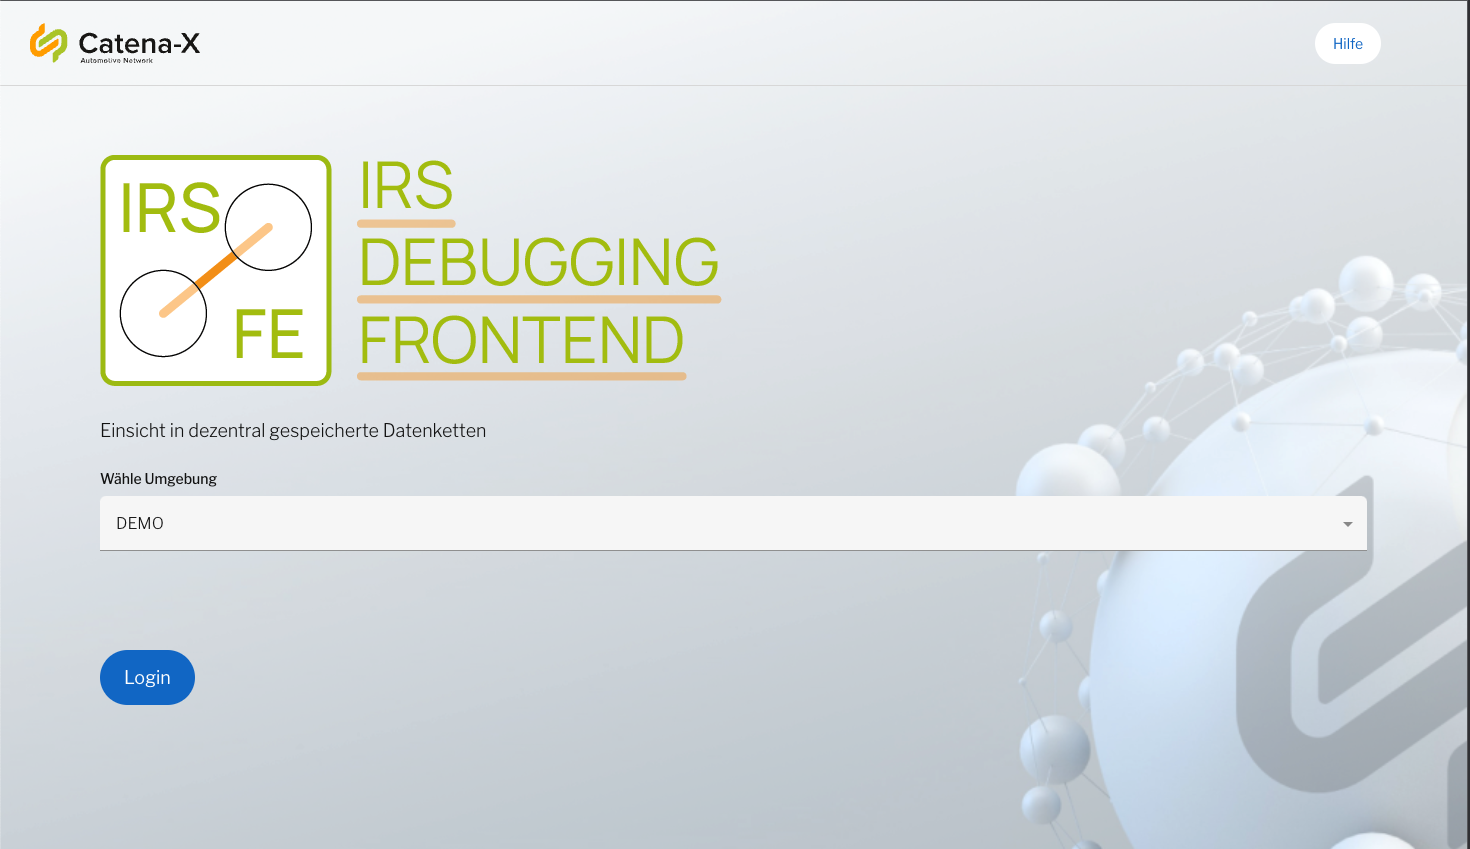
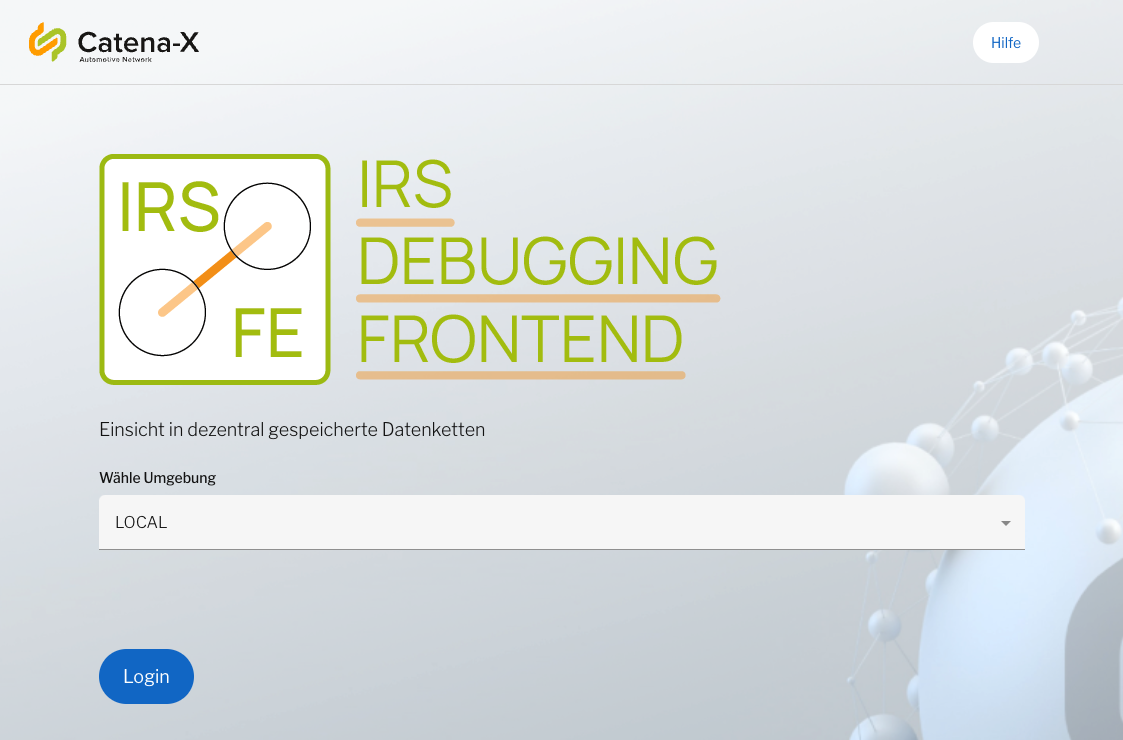
update irs docs

diff --git a/docs/kits/Data Chain Kit/page_software-operation-view.md b/docs/kits/Data Chain Kit/page_software-operation-view.md
@@ -25,81 +25,216 @@ This local deployment is an easy installation with helm. This setup is built to 
 
 | Step                                                                             | Action                              | Description                                                             |
 |----------------------------------------------------------------------------------|-------------------------------------|-------------------------------------------------------------------------|
-|![arrow down](../../../static/img/arrow_down.png)| **[Install the prerequisites](#step-1-install-the-prerequisites)**| Install all necessary tools for this setup                                     |
-|![vector](../../../static/img/vector.png)    | **[Get Helm Chart](#step-2-get-helm-chart)**               | Get all necessary code to deploy the service and dependencies to the kuberneetes cluster|
-|![check](../../../static/img/check.png)     | **[Start demo environment](#step-3-start-demo-environment)**|Start cluster and interact with the Item Relationship Service|
+|![arrow down](../../../static/img/arrow_down.png)| **[Install the prerequisites](#step-1-prerequisites)**| Install all necessary tools for this setup                                     |
+|![vector](../../../static/img/vector.png)    | **[Check out the Code](#step-2-check-out-the-code)**               | Get all necessary code to deploy the service and dependencies to the kuberneetes cluster|
+|![check](../../../static/img/check.png)     | **[Installing the Service](#step-3-installing-the-services)**|Start cluster and interact with the Item Relationship Service|
 
-### Step 1: install the prerequisites
+### Step 1: Prerequisites
 
-The following prerequisties need to be installed, so that the local helm deployment can be of success.
+1. [Docker](https://docs.docker.com/get-docker/) is installed and docker deamon is running with minimum 8GB ram storage
+2. [helm](https://helm.sh/docs/intro/install/) is installed
 
-* [Install helm](https://helm.sh/docs/intro/install/)
-* [Install kubectl](https://kubernetes.io/docs/tasks/tools/)
-* [Install minikube](https://kubernetes.io/de/docs/tasks/tools/install-minikube/#minikube-installieren)
-* [Install rancher](https://ranchermanager.docs.rancher.com/getting-started/quick-start-guides/deploy-rancher-manager/helm-cli#install-rancher-with-helm)
+3. [Minikube](https://kubernetes.io/de/docs/tasks/tools/install-minikube/#minikube-installieren) is installed and running
 
-### Step 2: get Helm Chart
+   ```bash
+   minikube start --memory 8192 --cpus 2 
+   ```
+
+   _Optional_: enable minikube metrics
+
+   ```bash
+   minikube addons enable metrics-server
+   ```
+
+4. kubectl is installed
+5. Python3 is installed
+6. Ruby is installed
+7. psql client is installed
+8. **CURRENTLY STILL NECESSARY:** Fill the digital twin secret in file:
+
+   ```bash
+   ./template/digital-twin-registry-docker-secret.yaml
+   ```
+
+   Get the **digital twin secret**  via issue in the following [Digital Twin Repository](https://github.com/eclipse-tractusx/sldt-digital-twin-registry) request the image secret for the private digital twin registry image.
+
+### Step 2: Check out the code
 
 Check out the project [Item Relationship Service](https://github.com/eclipse-tractusx/item-relationship-service) or download a [released version](https://github.com/eclipse-tractusx/item-relationship-service/releases) of the Item Relationship Service
 
-### Step 3: start demo environment
+> currently in the [Pull Request](https://github.com/catenax-ng/tx-item-relationship-service/pull/143)
 
-in the xxx folder you will find a start.sh file. With this script you will load all dependencies and start the setup.
+### Step 3: Installing the services
+
+#### 1. Start the cluster
+
+To deploy the services on kubernetes, run
 
 ```bash
-./charts/localdeployment/start.sh
+./start.sh true true
 ```
 
-Wait until all pods and services are up and running.
+The script takes 2 parameters as input:
 
-### Step 4: access Debbugging View
+* INSTALL_EDC: default is set to true. If this is passed as true, will delete all helm charts related to EDC (vault, DAPS, EDC consumer and EDC provider) and install them again.
+* INSTALL_IRS: default is set to true. If this is passed as true, will delete all helm charts related to IRS (dependencies, IRS backend and IRS frontend) and install them again.
 
-open [http://localhost:3000/](http://localhost:3000/) and you should see the Item Relationship Service login screen.
+This can take up to **20 minutes**.
 
-**IMPORTANT:** select **local** in the dropdown!
+When the deployment is finished you can expect that 13 deployments can be seen in the minikube dashboard:
+
+* irs-frontend
+* irs
+* irs-minio
+* keycloak (mocked Service)
+* digital-twin-registry
+* semantic-hub (mocked Service)
+* irs-provider-backend
+* edc-provider-control-plane
+* edc-provider-data-plane
+* edc-consumer-control-plane
+* edc-consumer-data-plane
+* edc-vault-agent-injector
+
+Also in total 17 Pods are up and running.
+
+**INFO**: sometimes you will get the following message during deployment, which can be ignored. This is caused when a service takes longer than 90 seconds to be available.
+
+```bash
+-e Waiting for the deployments to be available
+error: timed out waiting for the condition on deployments/irs-frontend
+```
+
+##### 1.1 Get the Status of the deployment
+
+The minikube dashboard will give you feedback on how the status of the deployment currently is:
+
+```bash
+  minikube dashboard 
+```
+
+make sure you select the namespace irs
+
+![expected status](../../../static/img/minikube-dashboard-overview.png)
+
+#### 2. Forwarding Ports
+
+When the deployment has been finished please use the script to forward the ports:
+
+```bash
+./forwardingPorts.sh
+```
+
+After that you can access the:
+
+* **Digital Twin Registry:** [http://localhost:10200](http://localhost:10200)
+* **IRS Frontend:** [http://localhost:3000](http://localhost:3000)
+
+#### 3. Prepare test data
+
+> Only if Step 2 has been applied and the ports are forwarded.
+
+To provision Testdate to the provider EDC and register the testdata to the digital twin registry use the following script:
+
+```bash
+./upload-testdata.sh
+```
+
+If you like, you can remove the test data with:
+
+```bash
+./deleteIRSTestData.sh
+```
+
+### Step4: access Debuggin View
+
+open [http://localhost:3000/](http://localhost:3000/) and you should see the Item Relationship Service login screen. **Just press Login**
 
 ![irs-login](../../../static/img/irs-login.png)
-*Item Relationship Service login screen*
 
 ## Testing the Item Relationship Service
 
-| Step                                                                             | Action                          | Description                                                              |
-|----------------------------------------------------------------------------------|---------------------------------|--------------------------------------------------------------------------|
-|![-](../../../static/img/blank_page.png)    | **1. [Start Data Chain process](#step-1-configure-a-data-chain)** |GET /IRS/Job with job parameters.                                         |
-|![-](../../../static/img/check.png)     | **2. [Verify  Results](#step-2-verify-results)**          |After retrieval of the Data Chain, you can check it in the Debugging View. |
+You can use several different approaches to interact with the IRS. One is through the **IRS API** and another way is through the **IRS API Frontend**.
 
-### Step 1: Configure a Data Chain
+### Valid Global Asset Ids for Testing
 
-use the [API documentation](./Software%20Development%20View/page_software-development-view.md) to get more details on how to interact with the API Endpoint.
+use these globalAssetId's for testing
+|globalAssetId|type|
+|---|---|
+|urn:uuid:d3c0bf85-d44f-47c5-990d-fec8a36065c6|vehicle combustion engine|
+|urn:uuid:61a22b1c-5725-41fb-8e1e-dccaaba83838|vehicle combustion engine|
+|urn:uuid:513d7be8-e7e4-49f4-a22b-8cd31317e454|vehicle combustion engine|
 
-<!-- TODO: ADD Info about Testdata -->
-Item Relationship Service POST /irs/jobs example body:
+### Valid test requests for testing
+
+use these snippets for testing purposes.
 
 ```json
 {
   "aspects": [
-    "AddressAspect"
+    "AssemblyPartRelationship",
+    "SerialPartTypization"
   ],
   "bomLifecycle": "asBuilt",
-  "callbackUrl": "https://hostname.com/callback?jobId={jobId}&jobState={jobState}",
   "collectAspects": true,
-  "depth": 100,
   "direction": "downward",
-  "globalAssetId": "urn:uuid:6c311d29-5753-46d4-b32c-19b918ea93b0",
-  "lookupBPNs": true
+  "depth": 10,
+  "globalAssetId": "urn:uuid:d387fa8e-603c-42bd-98c3-4d87fef8d2bb"
+}
+````
+
+```json
+{
+  "aspects": [
+    "SerialPartTypization"
+  ],
+  "depth": 1,
+  "globalAssetId": "urn:uuid:d387fa8e-603c-42bd-98c3-4d87fef8d2bb"
 }
 ```
 
-For test purposes an already working setting has been added as you can see in the example below. So for your first try you just need to press on the button **build data chain**.
-After this you will this job in the Item Relationship Job Store list. Just click on the row and you will get more information on the current running data chain building process.
-![irs-login](../../../static/img/irs-job-overview.png)
-*Item Relationship Service Job overview*
+<!-- #### Get global asset id
+
+1. Forward ports of digital twin database: ``` kubectl port-forward svc/digital-twin-registry-database 5432:5432 ```
+2. Connect to the database: ``` export PGPASSWORD=digital-twin-registry-pass; psql -h localhost -p 5432 -d digital-twin-registry -U digital-twin-registry-user ```
+3. Execute query to get the global asset id: ``` select id_external from shell where id_short = 'VehicleCombustion' limit 1; ``` -->
+
+### Testing the IRS API Endpoints
+
+#### Precondition
+
+* Visual Studio extension: [REST Client by Huachao Mao](https://marketplace.visualstudio.com/items?itemName=humao.rest-client)
+* All Installation-Steps have been successfully conducted
+* A valid Global Asset Id
+
+#### Test-steps
+
+1. to interact with the API Endpoints, you need a valid token. You can generate an access token with using the ``` ./test/keycloack-service.rest ```.
+
+2. **copy & past** the to valid token into line 8 of ``` ./test/irs-backend-service.rest ```
+3. **copy & past** a valid globalAssetId into the request body
+4. **execute the request** ```./test/irs-backend-service.rest```
+
+### Testing with the IRS frontend
+
+#### Precondition
+
+* All Installation-Steps have been successfully conducted
+
+#### Test-steps
+
+1. **open** [http://localhost:3000](http://localhost:3000) and click 'Login'
+2. **copy & past** a valid globalAssetId into the request body
+   ![irs-new-job](../../../static/img/irs-new-job.png)
+3. **click** 'Build Data Chain' to start a new IRS job
+4. **click** visualization to see result of the job
+   ![irs-job-list](../../../static/img/irs-job-list.png)
 
 ### Step 2: Verify Results
 
 The following example shows a visual overview of all retrieved data assets and digital twins of a data chain.
 ![irs-login](../../../static/img/irs-vis-overview.png)
-*Item Relationship Service visualization overview*
+_Item Relationship Service visualization overview_
 
 With the following snippet all clickable objects will be explained:
 
@@ -108,37 +243,15 @@ With the following snippet all clickable objects will be explained:
 * **Relationship Aspect:** the line between Digital Twins is clickable and will give detailed Information about the relationship between the twins.
 
 ![irs-login](../../../static/img/irs-vis-clickable.png)
-*Item Relationship Service clicable objects*
+_Item Relationship Service clicable objects_
 
-### Item Relationship Service POST request examples
+## Stopping the Cluster
 
-#### successful BomAsBuilt Data Chain
+1. Stop minikube
 
-```json
-{
-  "aspects": [
-    "SerialPartTypization",
-    "AssemblyPartRelationship"
-  ],
-  "bomLifecycle": "asBuilt",
-  "collectAspects": true,
-  "depth": 10,
-  "direction": "downward",
-  "globalAssetId": "urn:uuid:6c311d29-5753-46d4-b32c-19b918ea93b0",
-}
-```
+    ```bash
+    minikube stop
+    ```
 
-#### failing BomAsBuilt Data Chain
-
-```json
-{
-  "aspects": [
-    "SerialPartTypization",
-  ],
-  "bomLifecycle": "asBuilt",
-  "collectAspects": true,
-  "depth": 10,
-  "direction": "upward",
-  "globalAssetId": "urn:uuid:6c311d29-5753-46d4-b32c-19b918ea93b0",
-}
-```
+2. stop the processes used for port forwarding and minikube dashboard
+3. shut down the docker deamon

diff --git a/docs/kits/Data Chain Kit/Software Development View/page_software-development-view.md b/docs/kits/Data Chain Kit/Software Development View/page_software-development-view.md
@@ -14,4 +14,4 @@ The IRS Rest API provides an easy to use Interface for applications to access cr
 
 The IRS REST API is standardized through the Catena-X e.V. and can be found here:
 
-[> DC-001 Item Relationship Service](https://catena-x.net/fileadmin/user_upload/Standard-Bibliothek/7_PC_Data_Chains_v2.1/DC_-_001_ITEM_RELATIONSHIP_SERVICE_PlatformCapabilityDataChains_v2.1.pdf)
+[> CX-0005 Item Relationship Service API](https://catena-x.net/de/standard-library)
